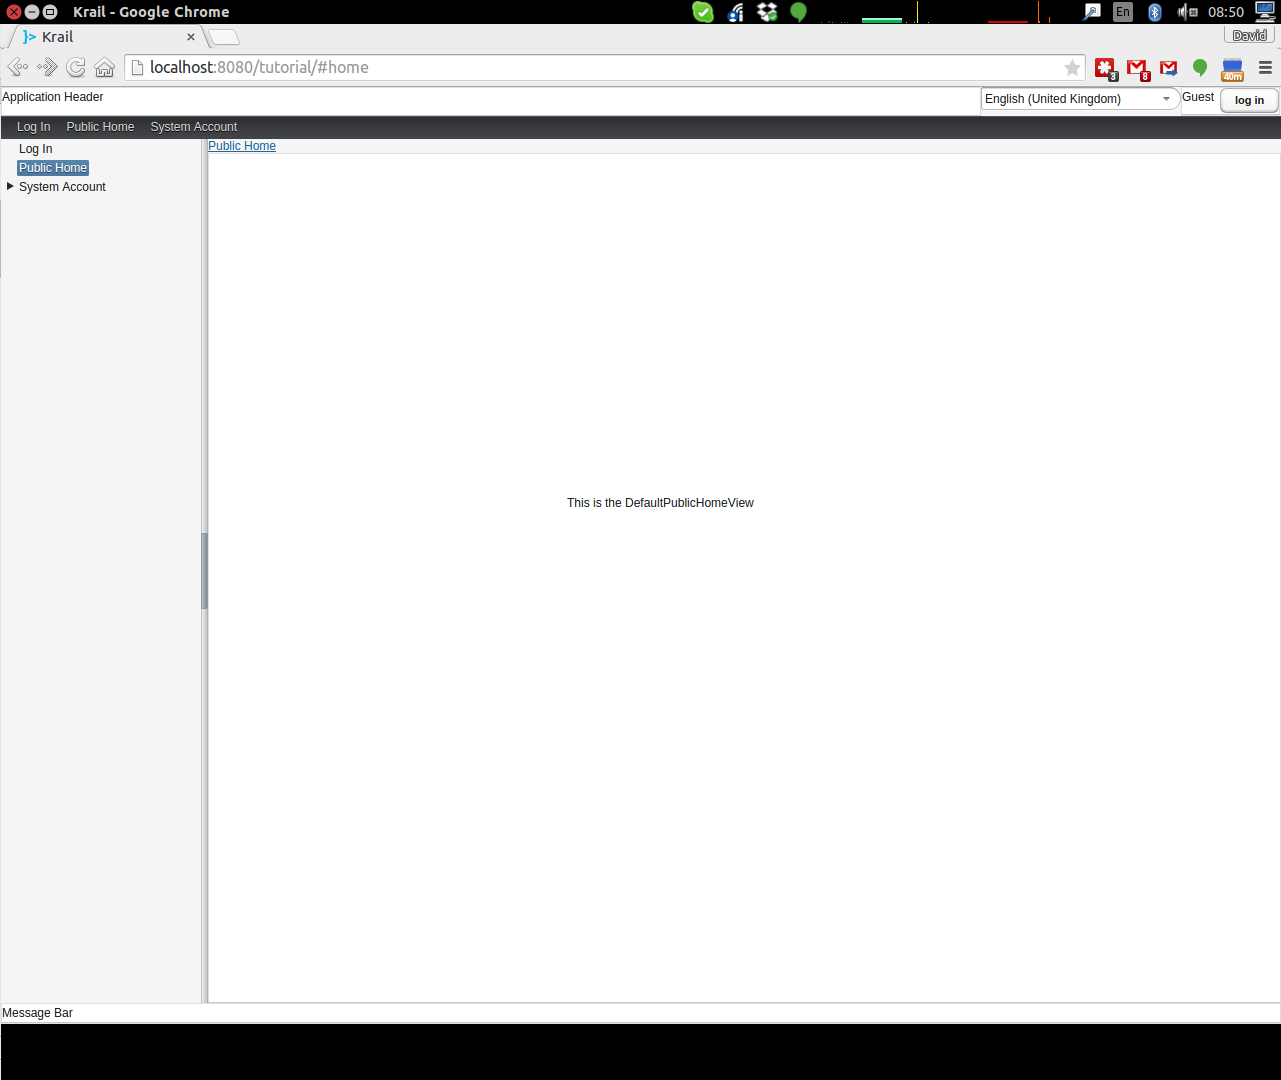
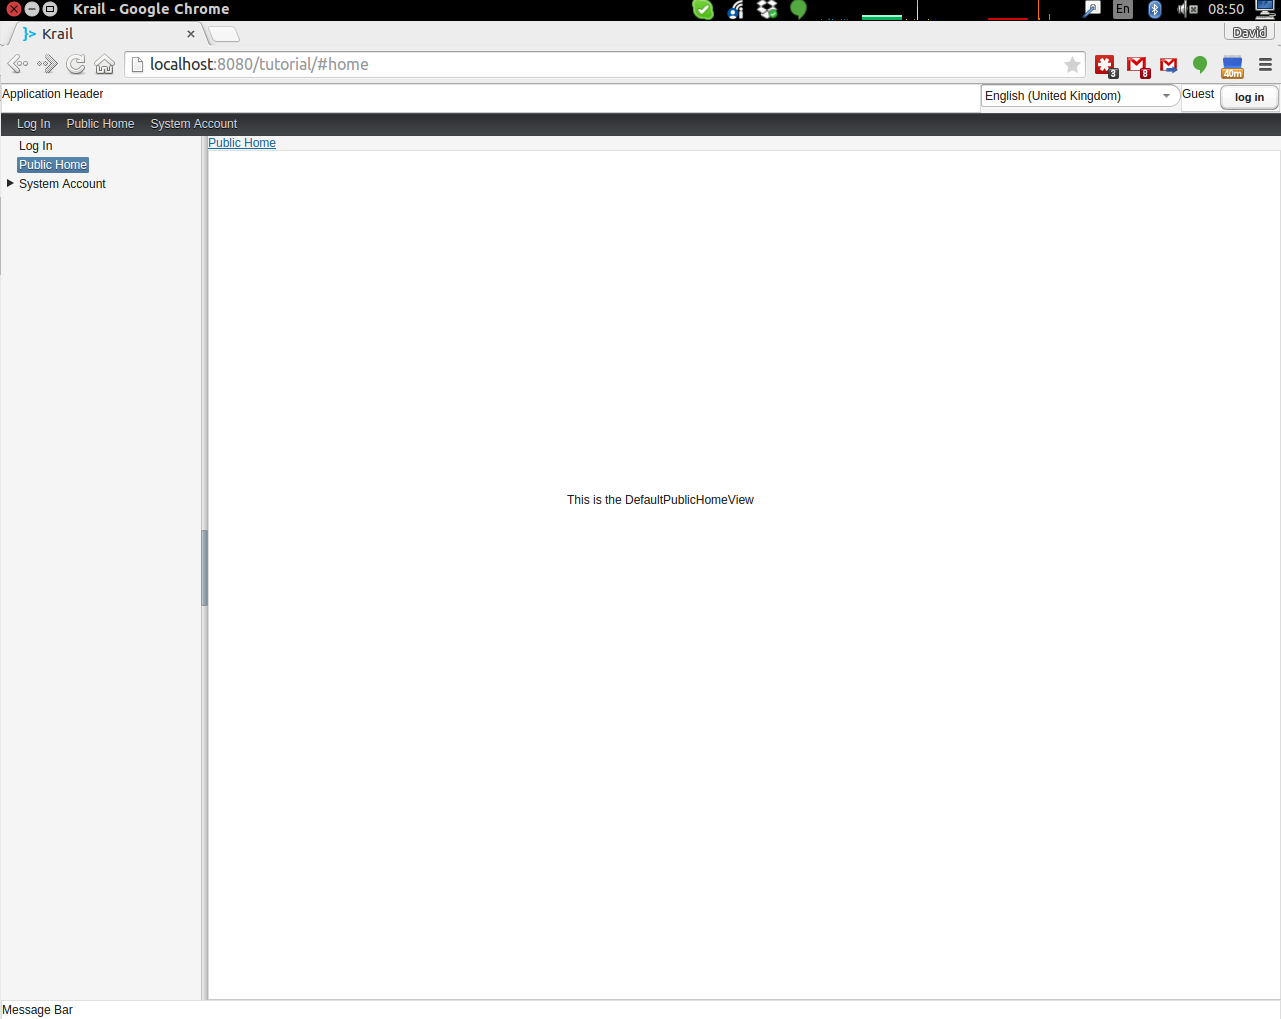
Tutorial, second image

diff --git a/docs/tutorial/tutorial00.md b/docs/tutorial/tutorial00.md
@@ -342,7 +342,7 @@ You should now see something like this:
 
 There are a few things to see, even in this very basic implementation.    
 
-![Screenshot](/img/basic-screenshot-labelled.png)
+![Screenshot](/img/basic-screenshot2.png)
 
 
 - The "screen" presentation is provided by ```DefaultApplicationUI``` - UI in this context refers to the Vaadin concept of UI, which is generally equivalent to a browser tab. 
@@ -367,7 +367,7 @@ This is achieved using two major components, the ```DefaultRealm``` (a very simp
 Now try this sequence:
 
 - Login
-- Click on "Private" and you will see that it jumps to "Private home" - this is configurable behaviour - it is a redirect so that there does not need to be a view if the "Private" page itslef will never be shown
+- Click on "Private" and you will see that it jumps to "Private home" - this is configurable behaviour - it is a redirect so that there does not need to be a view if the "Private" page itself will never be shown
 - Logout.  You will now be on the logout page (which by default does not appear in the navigation components - also configurable behaviour)
 - Press the browser 'back' button - and a notification will pop up saying that *"private/home is not a valid page"*.  Even though you know this is not the case, this message is deliberate, as it means that if a user tries to guess a url that they are not authorised for, they will not even get confirmation that the page exists. 
 - Look at the message bar and you will see that the same message has appeared there.  We will look at user notifications and how they are handled a bit later.
